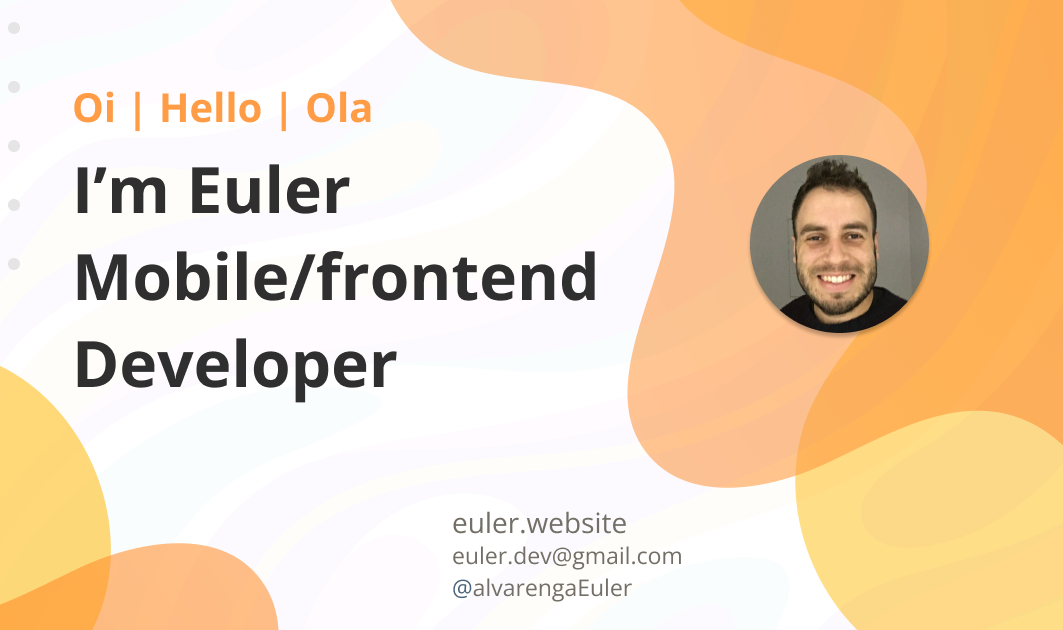
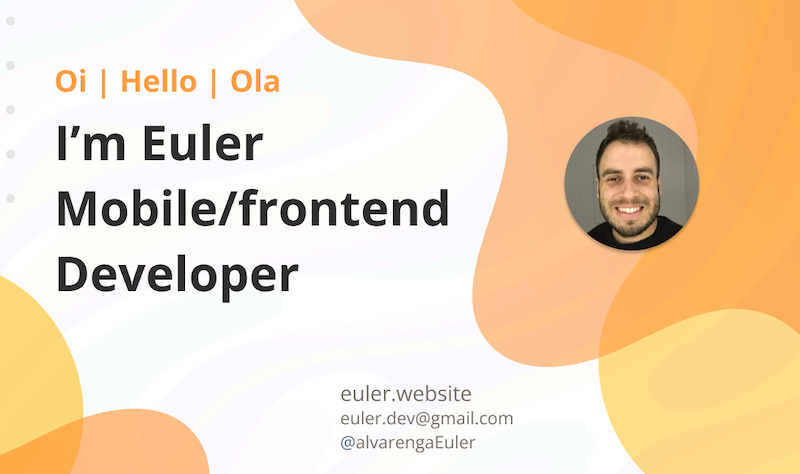
:zap: feat: new og image

diff --git a/pages/_app.tsx b/pages/_app.tsx
@@ -41,9 +41,9 @@ function MyApp({ Component, pageProps }: AppProps) {
           description: "Hey! I'm Euler Alvarenga, A Frontend Developer!",
           images: [
             {
-              url: "https://res.cloudinary.com/ddum5vpp3/image/upload/v1643532760/og-image_dwcwhp.png",
+              url: "https://lh3.googleusercontent.com/drive-viewer/AJc5JmRfimY6R2x0YCS7nfP8w8bGCy9fYCq5ODzEnFmav4xqtUK_FNirhs-LAbyU3bOQgZuHpUMDPNE=w1637-h936",
               width: 800,
-              height: 420,
+              height: 474,
               alt: "Euler Alvarenga | Frontend Developer",
             },
           ],
